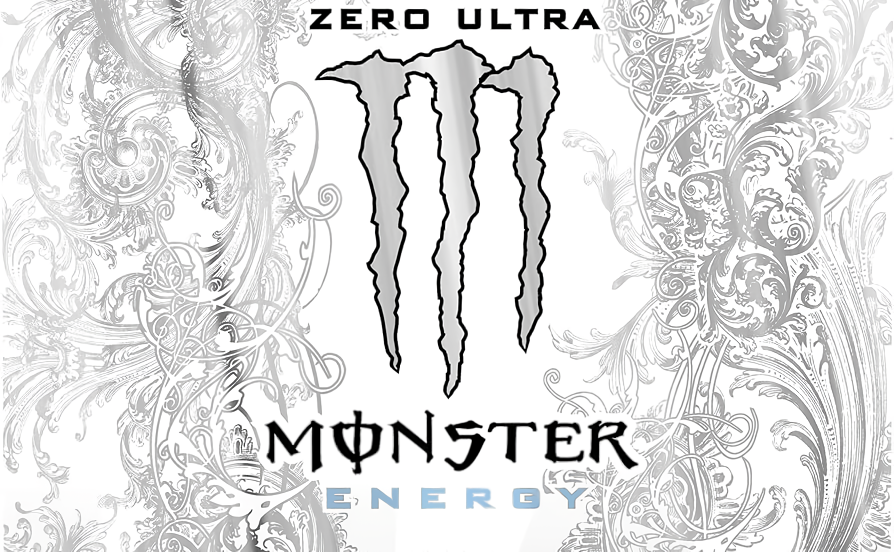
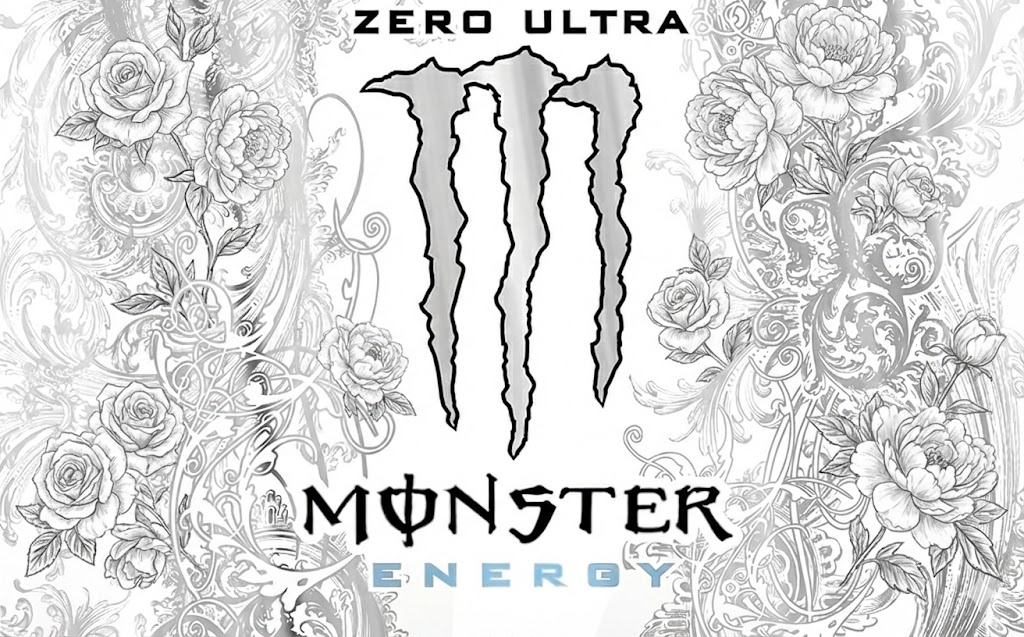
new background and some size changes

diff --git a/style.css b/style.css
@@ -94,7 +94,7 @@ body {
 }
 
 .intro-image {
-    width: 400px;
+    width: 300px;
     height: auto;
     border-radius: 20px;
     box-shadow: 0 20px 60px rgba(158, 94, 111, 0.4);
@@ -289,6 +289,7 @@ body {
 
 .hero-image {
     width: 100%;
+    max-width: 500px;
     border-radius: 10px;
     overflow: hidden;
     box-shadow: 0 10px 30px rgba(49, 44, 52, 0.2);
@@ -609,19 +610,14 @@ body {
 }
 
 /* Tab Content */
-.tab-content {
-    display: none;
-    animation: fadeIn 0.5s ease-in;
-    position: relative;
-}
-
-.tab-content::before {
+/* Global fixed background */
+body::before {
     content: '';
-    position: absolute;
+    position: fixed;
     top: 0;
     left: 0;
-    right: 0;
-    bottom: 0;
+    width: 100%;
+    height: 100%;
     background-image: url('monster.jpg');
     background-size: cover;
     background-position: center;
@@ -629,6 +625,14 @@ body {
     opacity: 0.05;
     pointer-events: none;
     z-index: -1;
+}
+
+/* Tab Content */
+.tab-content {
+    display: none;
+    animation: fadeIn 0.5s ease-in;
+    position: relative;
+    /* Removed local background to prevent overlap */
 }
 
 .tab-content.active {

diff --git a/index.html b/index.html
@@ -327,7 +327,7 @@
         <button id="collapseBtn" class="collapse-btn">▼</button>
         <div class="player-content">
             <iframe style="border-radius:12px"
-                src="https://open.spotify.com/playlist/6Hw2tcFmyYrppzbXv26t6n?si=FkTZrymvSD29u_tZ2djULA&pi=npYZNyDqTLGcA"
+                src="https://open.spotify.com/embed/playlist/6Hw2tcFmyYrppzbXv26t6n?utm_source=generator&theme=0"
                 width="100%" height="152" frameBorder="0" allowfullscreen=""
                 allow="autoplay; clipboard-write; encrypted-media; fullscreen; picture-in-picture"
                 loading="lazy"></iframe>

diff --git a/RENDER_DEPLOY.md b/RENDER_DEPLOY.md
@@ -1,0 +1,77 @@
+# Deploy Portfolio to Render
+
+## Quick Deployment Steps
+
+### 1. Sign Up / Log In to Render
+- Go to [render.com](https://render.com)
+- Sign up or log in (you can use your GitHub account)
+
+### 2. Create a New Static Site
+1. Click **"New +"** in the top right
+2. Select **"Static Site"**
+3. Connect your GitHub account if not already connected
+4. Select your repository: **`Ryunix5/rayan-portfolio`**
+5. Click **"Connect"**
+
+### 3. Configure Your Site
+Fill in the following settings:
+
+- **Name**: `rayan-portfolio` (or whatever you prefer)
+- **Branch**: `main`
+- **Root Directory**: (leave blank)
+- **Build Command**: (leave blank - no build needed for static HTML)
+- **Publish Directory**: `.` (current directory)
+
+### 4. Deploy!
+1. Click **"Create Static Site"**
+2. Render will automatically deploy your site
+3. Wait 1-2 minutes for deployment to complete
+
+### 5. Access Your Live Site
+Your site will be live at:
+```
+https://rayan-portfolio.onrender.com
+```
+(or whatever name you chose)
+
+## Custom Domain (Optional)
+If you have a custom domain:
+1. Go to your site dashboard on Render
+2. Click **"Settings"** → **"Custom Domain"**
+3. Add your domain and follow DNS instructions
+
+## Automatic Deployments
+✅ Every time you push to GitHub, Render will automatically redeploy!
+
+## Update Your Site
+To update your portfolio:
+```bash
+# Make changes to your files
+git add .
+git commit -m "Update portfolio"
+git push
+```
+Render will automatically detect the changes and redeploy.
+
+## Alternative: Manual Upload (Static Files)
+If you prefer not to use GitHub:
+1. On Render, select **"Static Site"**
+2. Choose **"Deploy from Git"** → **"Public Git repository"**
+3. Or use the Render dashboard to upload files manually
+
+## Benefits of Render
+- ✅ Free SSL certificate (HTTPS)
+- ✅ Automatic deployments from GitHub
+- ✅ Fast CDN
+- ✅ Easy custom domain setup
+- ✅ Free tier available
+
+## Your Live URLs
+- **GitHub Pages**: https://ryunix5.github.io/rayan-portfolio/
+- **Render**: https://rayan-portfolio.onrender.com (after deployment)
+
+## Need Help?
+If you encounter any issues, check:
+- Render documentation: https://render.com/docs/static-sites
+- Your GitHub repository is public
+- The repository contains your index.html file
